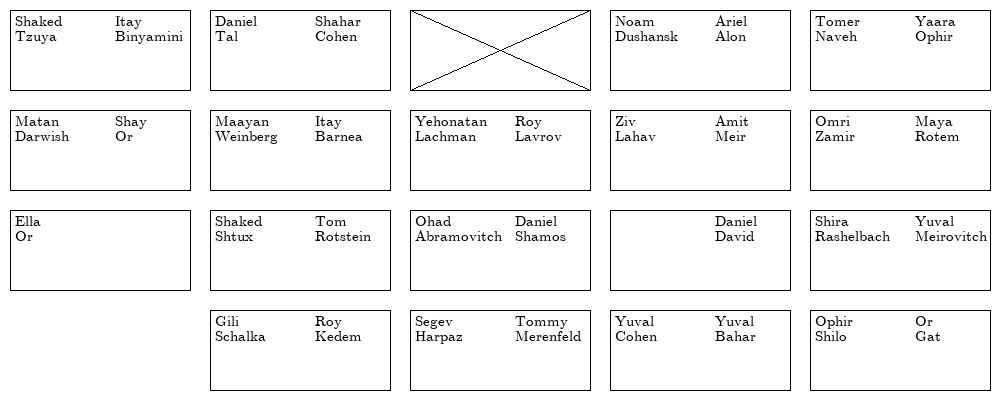
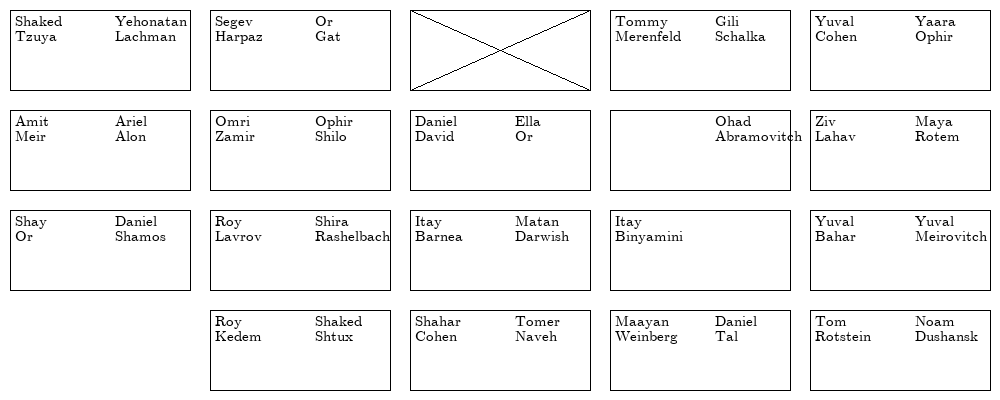
first commit

diff --git a/main.py b/main.py
@@ -10,7 +10,7 @@ import datetime
 #execute the shuffler file to create new seats
 os.system('python shuffler.py')
 #group name
-target = '"זה עוד בוקר ביב׳2"'
+target = '"RoyKedem"'
 # path of the pictue
 path = r"C:\Users\roykc\Documents\Projects\class-shuffler\pil_text_font.png"
 

diff --git a/shuffler.py b/shuffler.py
@@ -16,7 +16,7 @@ def collect_students(file_name):
         x = x[0: -1].title()
         students.append(x)
     students.append([''])
-    students.append([''])
+    students.append(['Segev Kazav'])
     return students
 
 def shuffle(students):

diff --git a/class_map.py b/class_map.py
@@ -45,3 +45,4 @@ def create_map(students):
     
         
     img.save('pil_text_font.png')
+
